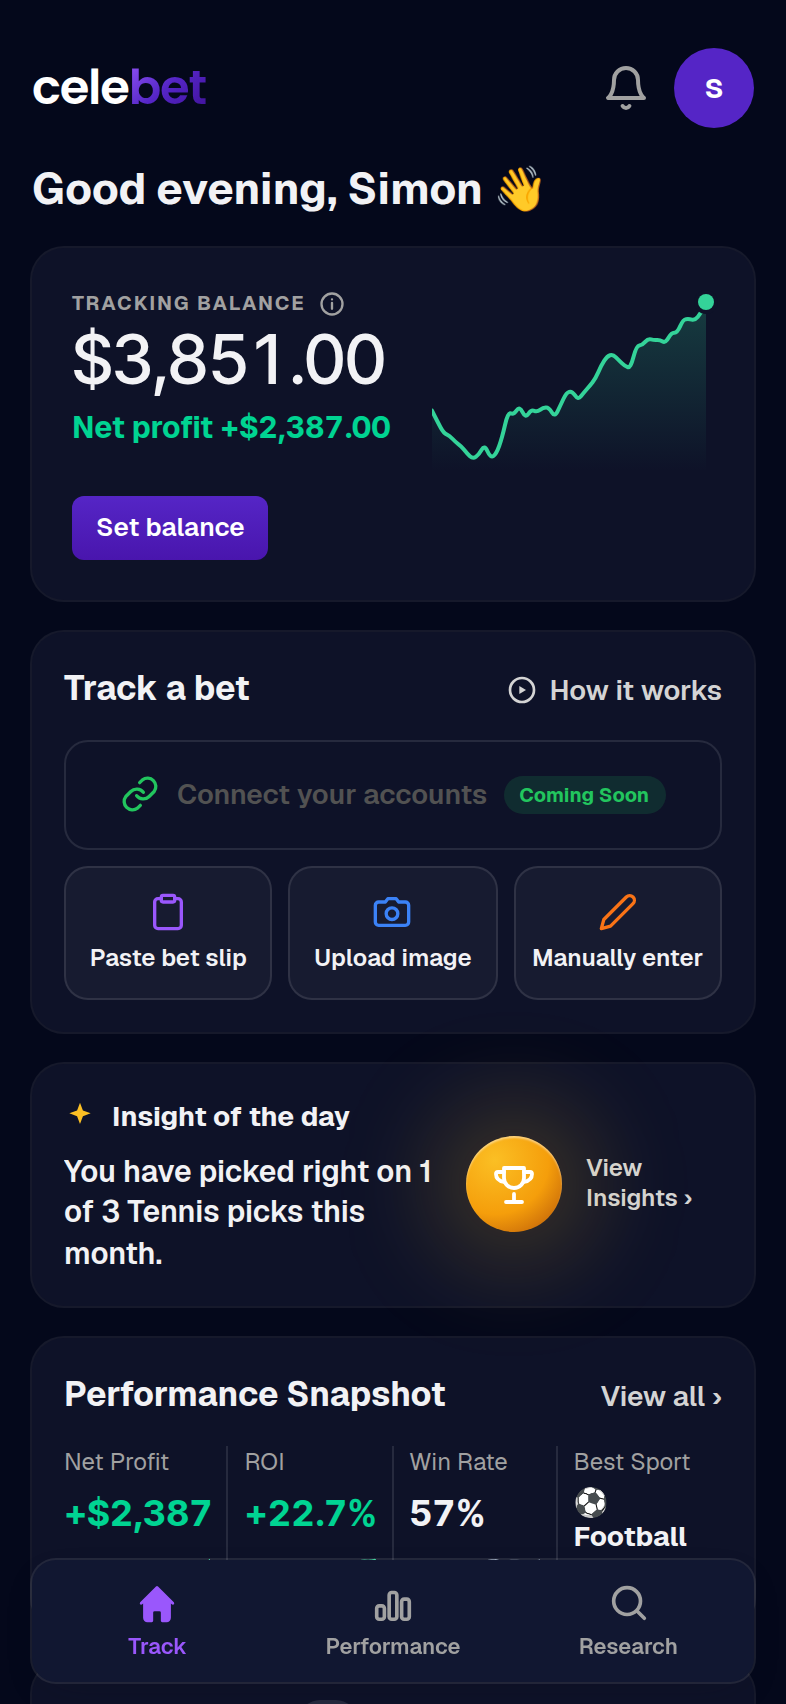
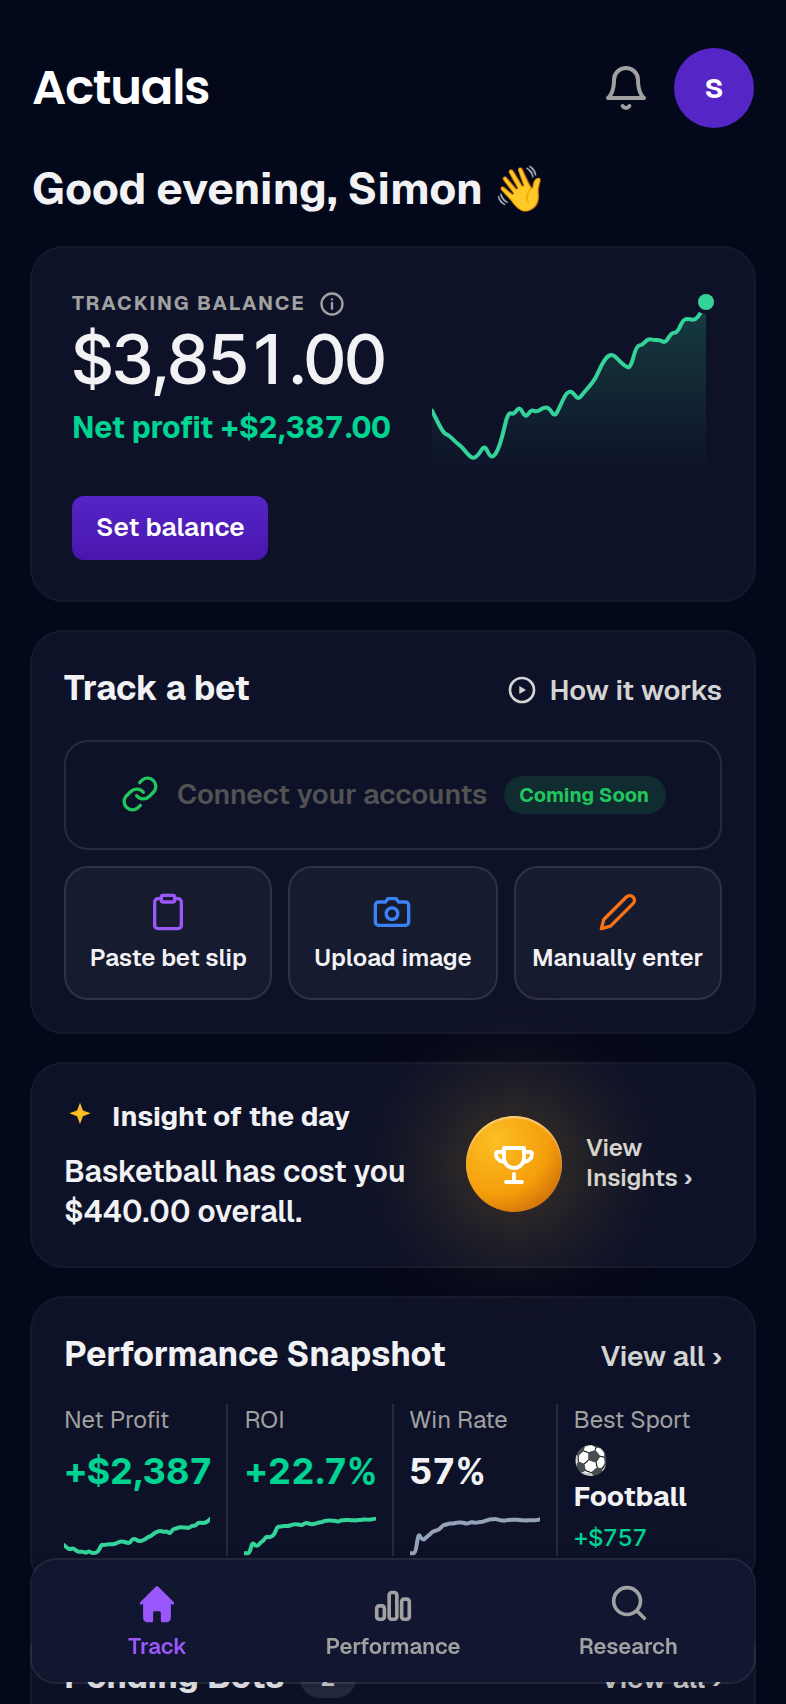
Regenerate the landing screenshots and update the docs for the rename
THE ONE A GREP COULD NOT FIND. The landing hero shows three phones, and
those are not live components: they are six PNGs in public/shots/, shot
on 12 August, with the app's name baked into the pixels. grep over src/
came back clean while the old name sat in the biggest image on the site.
Only looking at the screenshot found it.

All six regenerated from the same preview routes shotset.mjs uses, at
the scale the shipped files actually were. Checked against the old ones
pixel by pixel: the two research shots came out byte identical, which is
the control, since that page has no wordmark. Track and Performance
differ only where the date drives them, because Insight of the day is
seeded by the date and the chart axis is relative to today.

Docs: updated only the lines saying what the product currently IS.
Left alone on purpose, each for a reason:
- the Supabase project is really still named Celebet in the dashboard,
  so renaming that sentence would send a reader looking for a project
  that does not exist
- gocelebet.com and the demo account address, which move with the domain
- the live branch name, which is an identifier
- IDEAS.md entirely, since a backlog is a record of decisions

RENAME-DECISIONS.md records every call made without asking, per the
brief, including why the wordmark kept its typeface: changing a font is
the owner's decision and a rename is not permission to make it.

Verified: full check green, both scrub tests pass, and eight theme
[…]

diff --git a/RENAME-DECISIONS.md b/RENAME-DECISIONS.md
@@ -1,0 +1,85 @@
+# Rename: the calls I made without asking
+
+The brief said to make the call myself on anything it had not decided,
+pick the option that is easiest to reverse, and write down what I chose
+and why. This is that list. August 2026.
+
+## 1. The landing page screenshots were regenerated
+
+**The find of the job, and no grep could have caught it.** The landing
+page's hero shows three phones. Those are not live components, they are
+six PNG screenshots in `public/shots/`, taken on 12 August. The app's
+name is baked into those pixels, so `grep -ril celebet src/` came back
+clean while the old name was still sitting in the middle of the hero.
+
+I only found it by looking at the screenshot, which is exactly why the
+brief asked for that step.
+
+Regenerated all six from the same preview routes and the same settings
+`shotset.mjs` uses, except at deviceScaleFactor 2 rather than 3, because
+2 is what the shipped files actually were (786x1704, not 1179x2556).
+
+Verified against the old files pixel by pixel:
+- `research-light` and `research-dark` came out byte identical, which is
+  the control: that page has no wordmark, so nothing should have moved.
+- `track` and `performance` differ by 4% and 1%. That is the date, not
+  the rename: Insight of the day is seeded by the date, and the chart's
+  axis is relative to today. The originals were shot on 12 August.
+
+Reversible: the old files are in git history.
+
+Not artwork, so not covered by the no-logo rule. These are screenshots
+of the product, and leaving them would have advertised the old name in
+the largest image on the site.
+
+## 2. The Instagram link keeps the old handle
+
+`instagram.com/gocelebet` appears in the landing footer, terms and
+privacy. The account genuinely exists under that handle, so renaming
+the link would point three pages at a dead URL.
+
+Left the URL. Changed the `aria-label` to "Actuals on Instagram",
+because that label names the company, not the handle, and it is what a
+screen reader announces.
+
+Fix this when the new handle is registered. It is on the owner's list.
+
+## 3. The wordmark keeps its typeface
+
+`Wordmark.tsx` had to be rebuilt: its whole design was "cele" in the
+text colour and "bet" in a purple gradient, and the new name has no such
+split. It is now plain text following the theme.
+
+I kept `font-brand`, the app's existing brand face. CLAUDE.md is
+explicit that changing a typeface is the owner's decision and never a
+side effect of other work. A rename is not permission to change a font.
+
+I also kept the `onDark` prop even though nothing passes it today.
+Deleting it would gain nothing and would break a surface that is navy
+in both themes.
+
+## 4. One line left in CLAUDE.md, flagged rather than changed
+
+Line 33: "project id wqhitxtowfhylzpfxkpw, named Celebet".
+
+That is the name of the real Supabase project, in the real dashboard.
+Renaming the sentence would make the note wrong: it would send a future
+reader looking for a project called Actuals that does not exist.
+
+Left it. The owner can rename the project in Supabase, at which point
+this line should follow. It is on his checklist.
+
+## 5. Screenshots were taken through the preview routes
+
+`/app`, `/stats` and `/settings` need a session, and this run had no
+credentials, so they redirect to `/login`. The `/preview/*` routes exist
+for exactly this: they render the SAME components with made up data and
+no auth. That is what the light and dark review sheets show.
+
+The real pages are therefore verified by component, not by URL. The
+first thing worth checking on a phone is that they render logged in.
+
+## 6. design-check.mjs
+
+One comment mentioned the old name. Renamed. It is a build tool, it runs
+inside `npm run check`, and the line is documentation.

diff --git a/CLAUDE.md b/CLAUDE.md
@@ -407,9 +407,9 @@ Written down as given. Not built. Mockups are coming next.
 THE SPLIT THAT MAKES IT WORK. Insights and Research are opposite
 ends of one timeline:
 - Research happens BEFORE a bet. It is active. The user goes looking.
-- Insights happen AFTER a bet. Celebet surfaced them on its own.
+- Insights happen AFTER a bet. Actuals surfaced them on its own.
 
-AN INSIGHT is something Celebet discovered. Not something the user
+AN INSIGHT is something Actuals discovered. Not something the user
 asked for, not something an AI researched. It comes from the user's
 own data. Examples given by the owner:
 - You have won 63% of bets between 1.01 and 1.80 odds.
@@ -454,7 +454,7 @@ THE ONE LINE SUMMARY:
 
 BUILT, August 2026. Research is a shell: a search field and six doors
 (Who is playing, Team and player trends, Compare odds, Weather, What
-the community thinks, Ask CeleBOT). Every one needs data Celebet does
+the community thinks, Ask CeleBOT). Every one needs data Actuals does
 not have, so none of them work and the section says "Coming to
 Research" rather than wearing six identical Soon badges. The icons are
 ink: a color would say the door works. They earn one when they ship.
@@ -538,8 +538,9 @@ Decisions locked in during this build:
   vercel.app address, all with /** wildcards. New domains must be
   added here or reset links silently fall back to the home page.
 - Disclaimer component shows on login, signup, reset, and home:
-  entertainment only, 1-800 GAMBLER, adults only, plus the
-  Celebet trademark line for Peak Street 6 LLC.
+  entertainment only, 1-800 GAMBLER, adults only, plus the line
+  "Actuals is a part of Peak Street 6 LLC". That replaced a trademark
+  claim at the rename, on the owner's wording: the mark is not filed.
 - Testers each create their own account. The old demo account is
   only for people who want a quick peek.
 
@@ -553,7 +554,8 @@ Decisions locked in during this build:
 
 ## Product facts
 
-- App: Celebet, a mobile-first manual sports bet tracker.
+- App: Actuals, a mobile-first manual sports bet tracker. Renamed
+  from Celebet in August 2026.
 - Live at gocelebet.com (Hostinger domain, Hostinger keeps DNS,
   pointed at Vercel). The vercel.app address still works too.
 - The owner has an Instagram account for finding test users.
@@ -604,8 +606,12 @@ Decisions locked in during this build:
   is reached from Track.
 
 THEME. System, Light or Dark, stored in localStorage under
-`celebet-theme`. System is the default and stores nothing, so anyone
+`actuals-theme`. System is the default and stores nothing, so anyone
 who never opens Settings keeps following their phone forever.
+- The key was `celebet-theme` before the rename. Both readers, the raw
+  script in layout.tsx and Settings after mount, fall back to the old
+  key once, copy it across and delete it. They have to stay identical:
+  two rules for one attribute is how the theme flash comes back.
 - The whole app keys off `data-theme` on <html>. globals.css declares
   `@custom-variant dark (&:where([data-theme="dark"], ...))`, so a
   media query alone can no longer decide anything. That swap was the
@@ -625,7 +631,7 @@ balance so a user could start over, and deleting their bets is not
 that. His words: "i think data is still valuable despite wanting a
 fresh reset of your tracking."
 
-So Celebet draws a LINE instead. `tracking_since` goes into the auth
+So Actuals draws a LINE instead. `tracking_since` goes into the auth
 user's metadata (no migration), and `sinceLine()` in src/lib/stats.ts
 keeps a bet if it was NOT already settled before that date.
 - That one rule carries pending bets over, which the owner wanted: a

diff --git a/ROADMAP.md b/ROADMAP.md
@@ -1,4 +1,4 @@
-# Celebet: the mockup build plan
+# Actuals: the mockup build plan
 
 Written August 2026, from the four mockups (mobile and web, dark and
 light). This file is the shared to do list. Nothing here is approved
@@ -27,7 +27,7 @@ already covers a push in practice, by cashing out at the stake, and the
 calculations are known to be right. This removes the only database
 migration phase 1 would have needed.
 
-**No American odds.** The mockups show +175 and -125. Celebet keeps
+**No American odds.** The mockups show +175 and -125. Actuals keeps
 what it has: you enter a chance percentage and the exact payout, and a
 bet reads "Aug 6, 2026, $99.97 at 3.32". American odds may become a
 setting later, once a settings page exists. Not now.

diff --git a/README.md b/README.md
@@ -1,4 +1,4 @@
-# Celebet
+# Actuals
 
 A mobile-first web app for manually tracking sports bets: wallet, profit and loss, and performance statistics.
 
